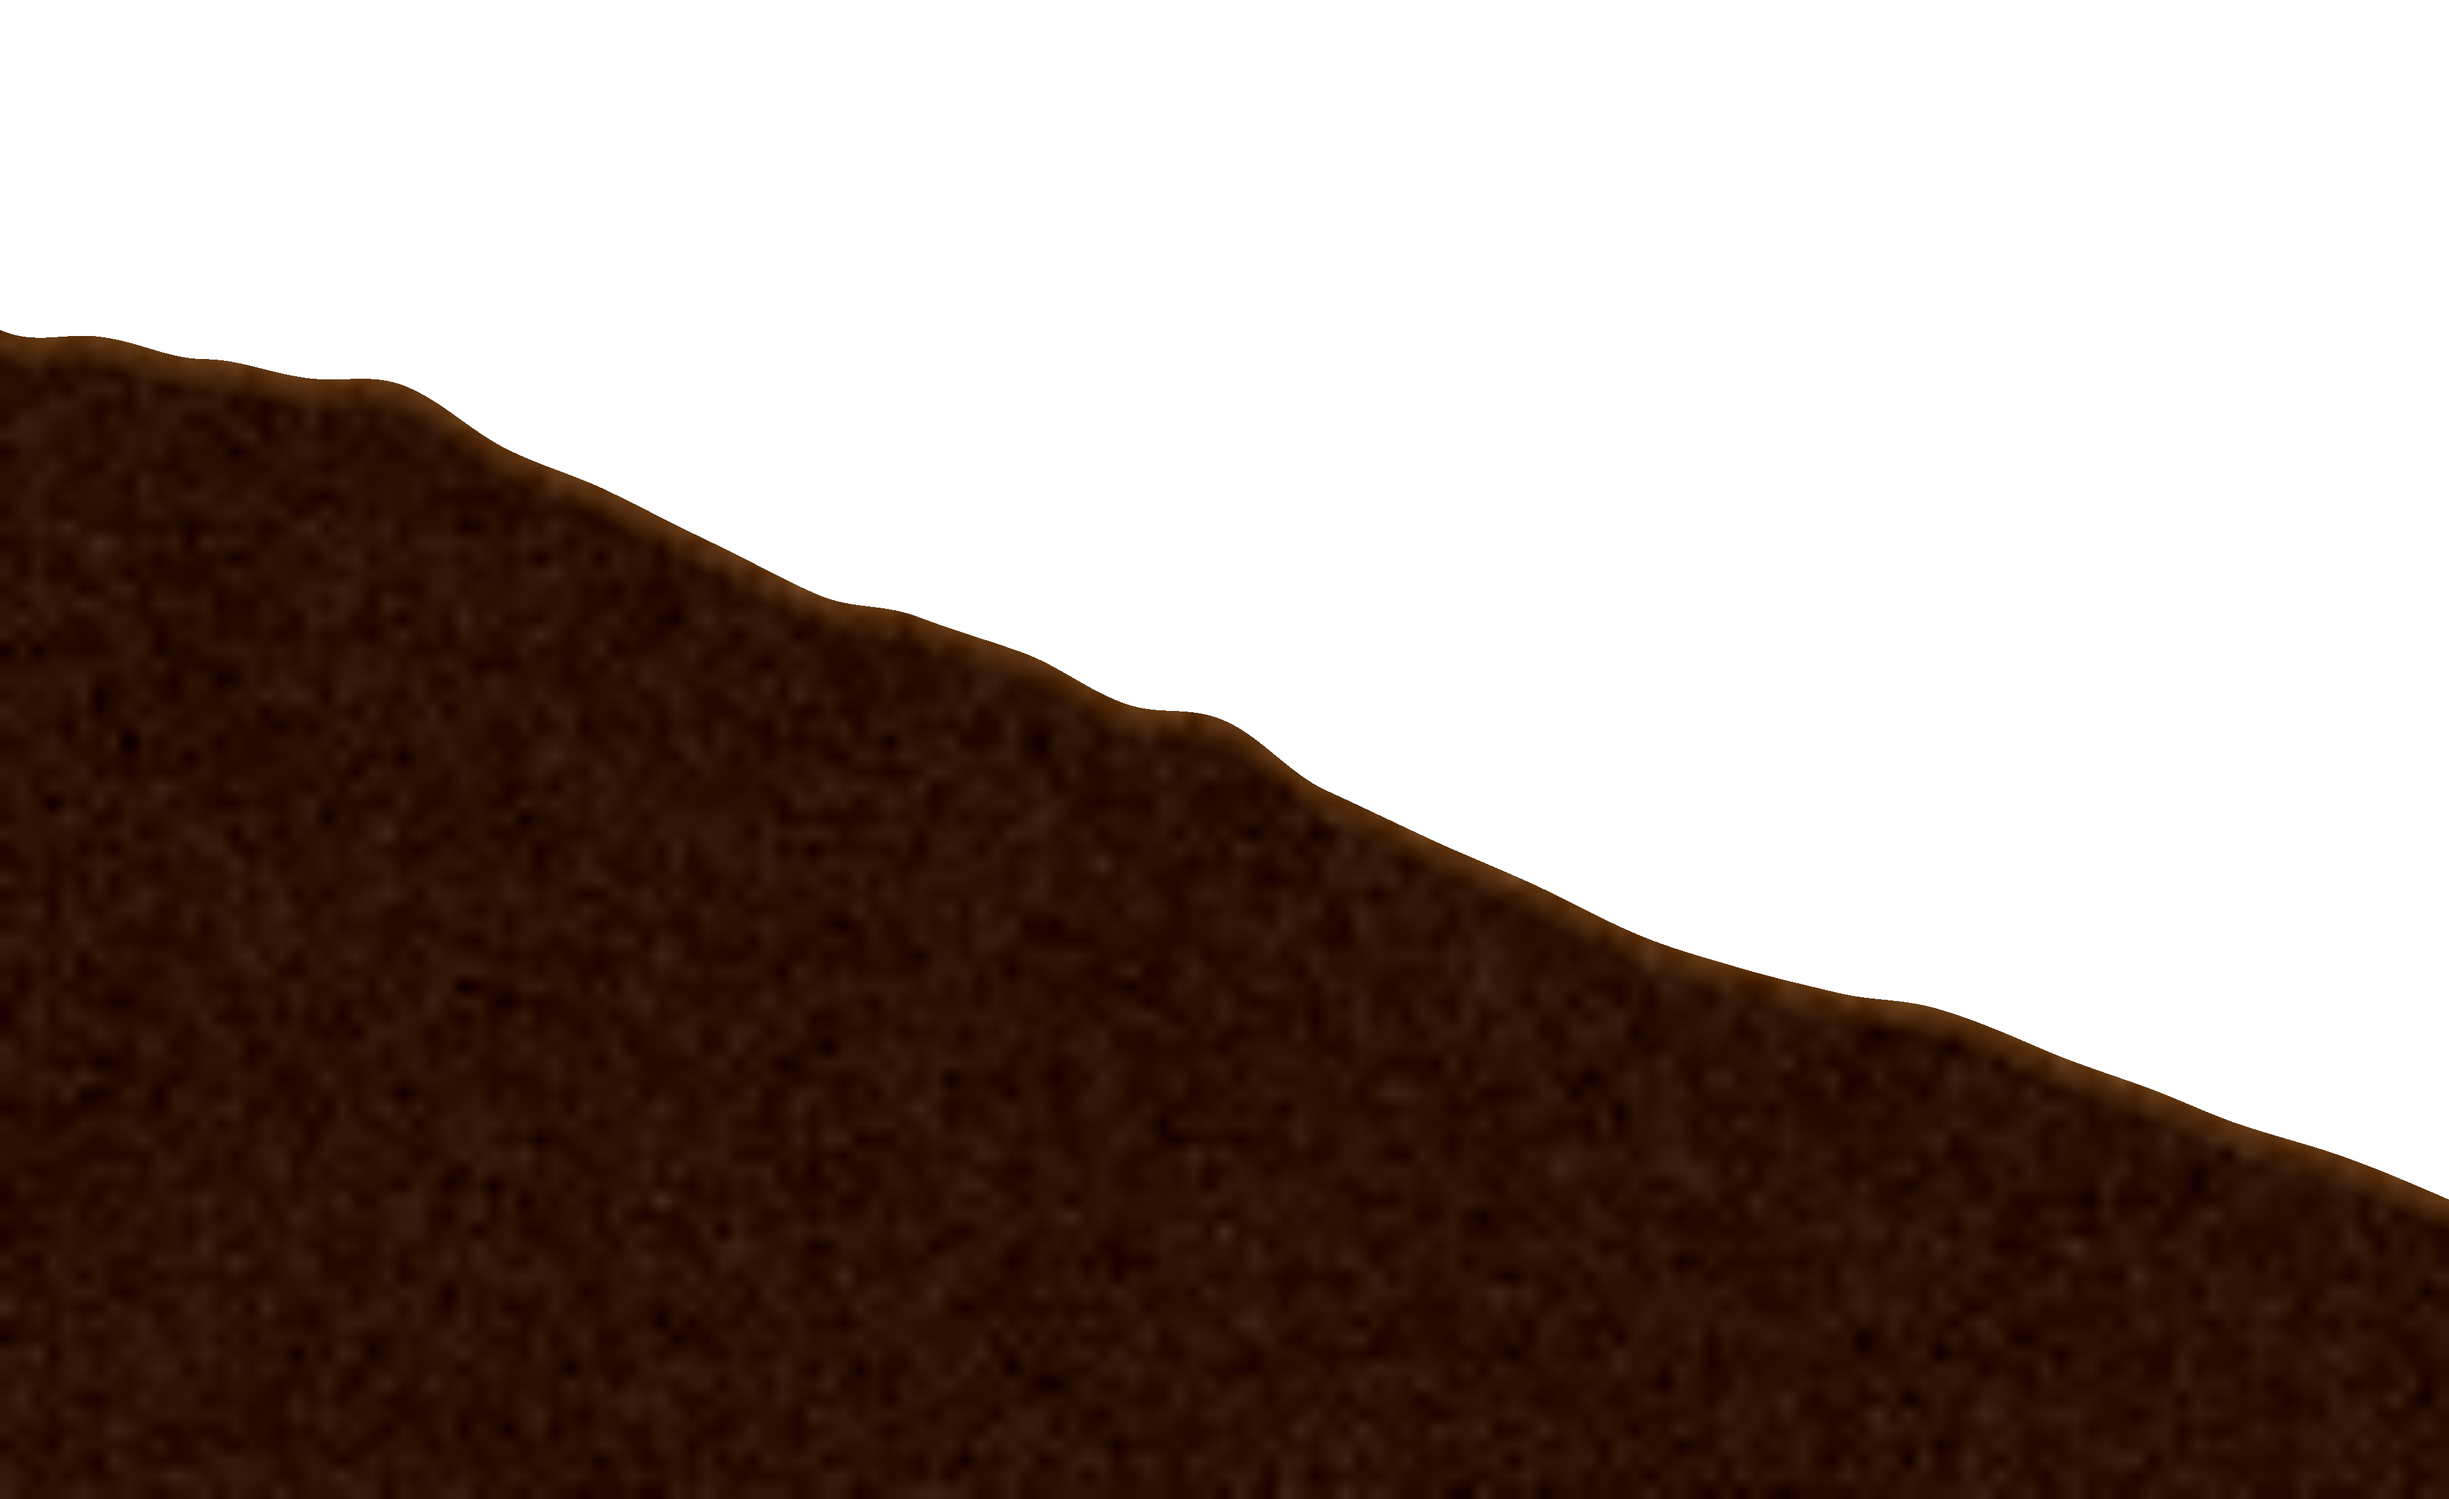
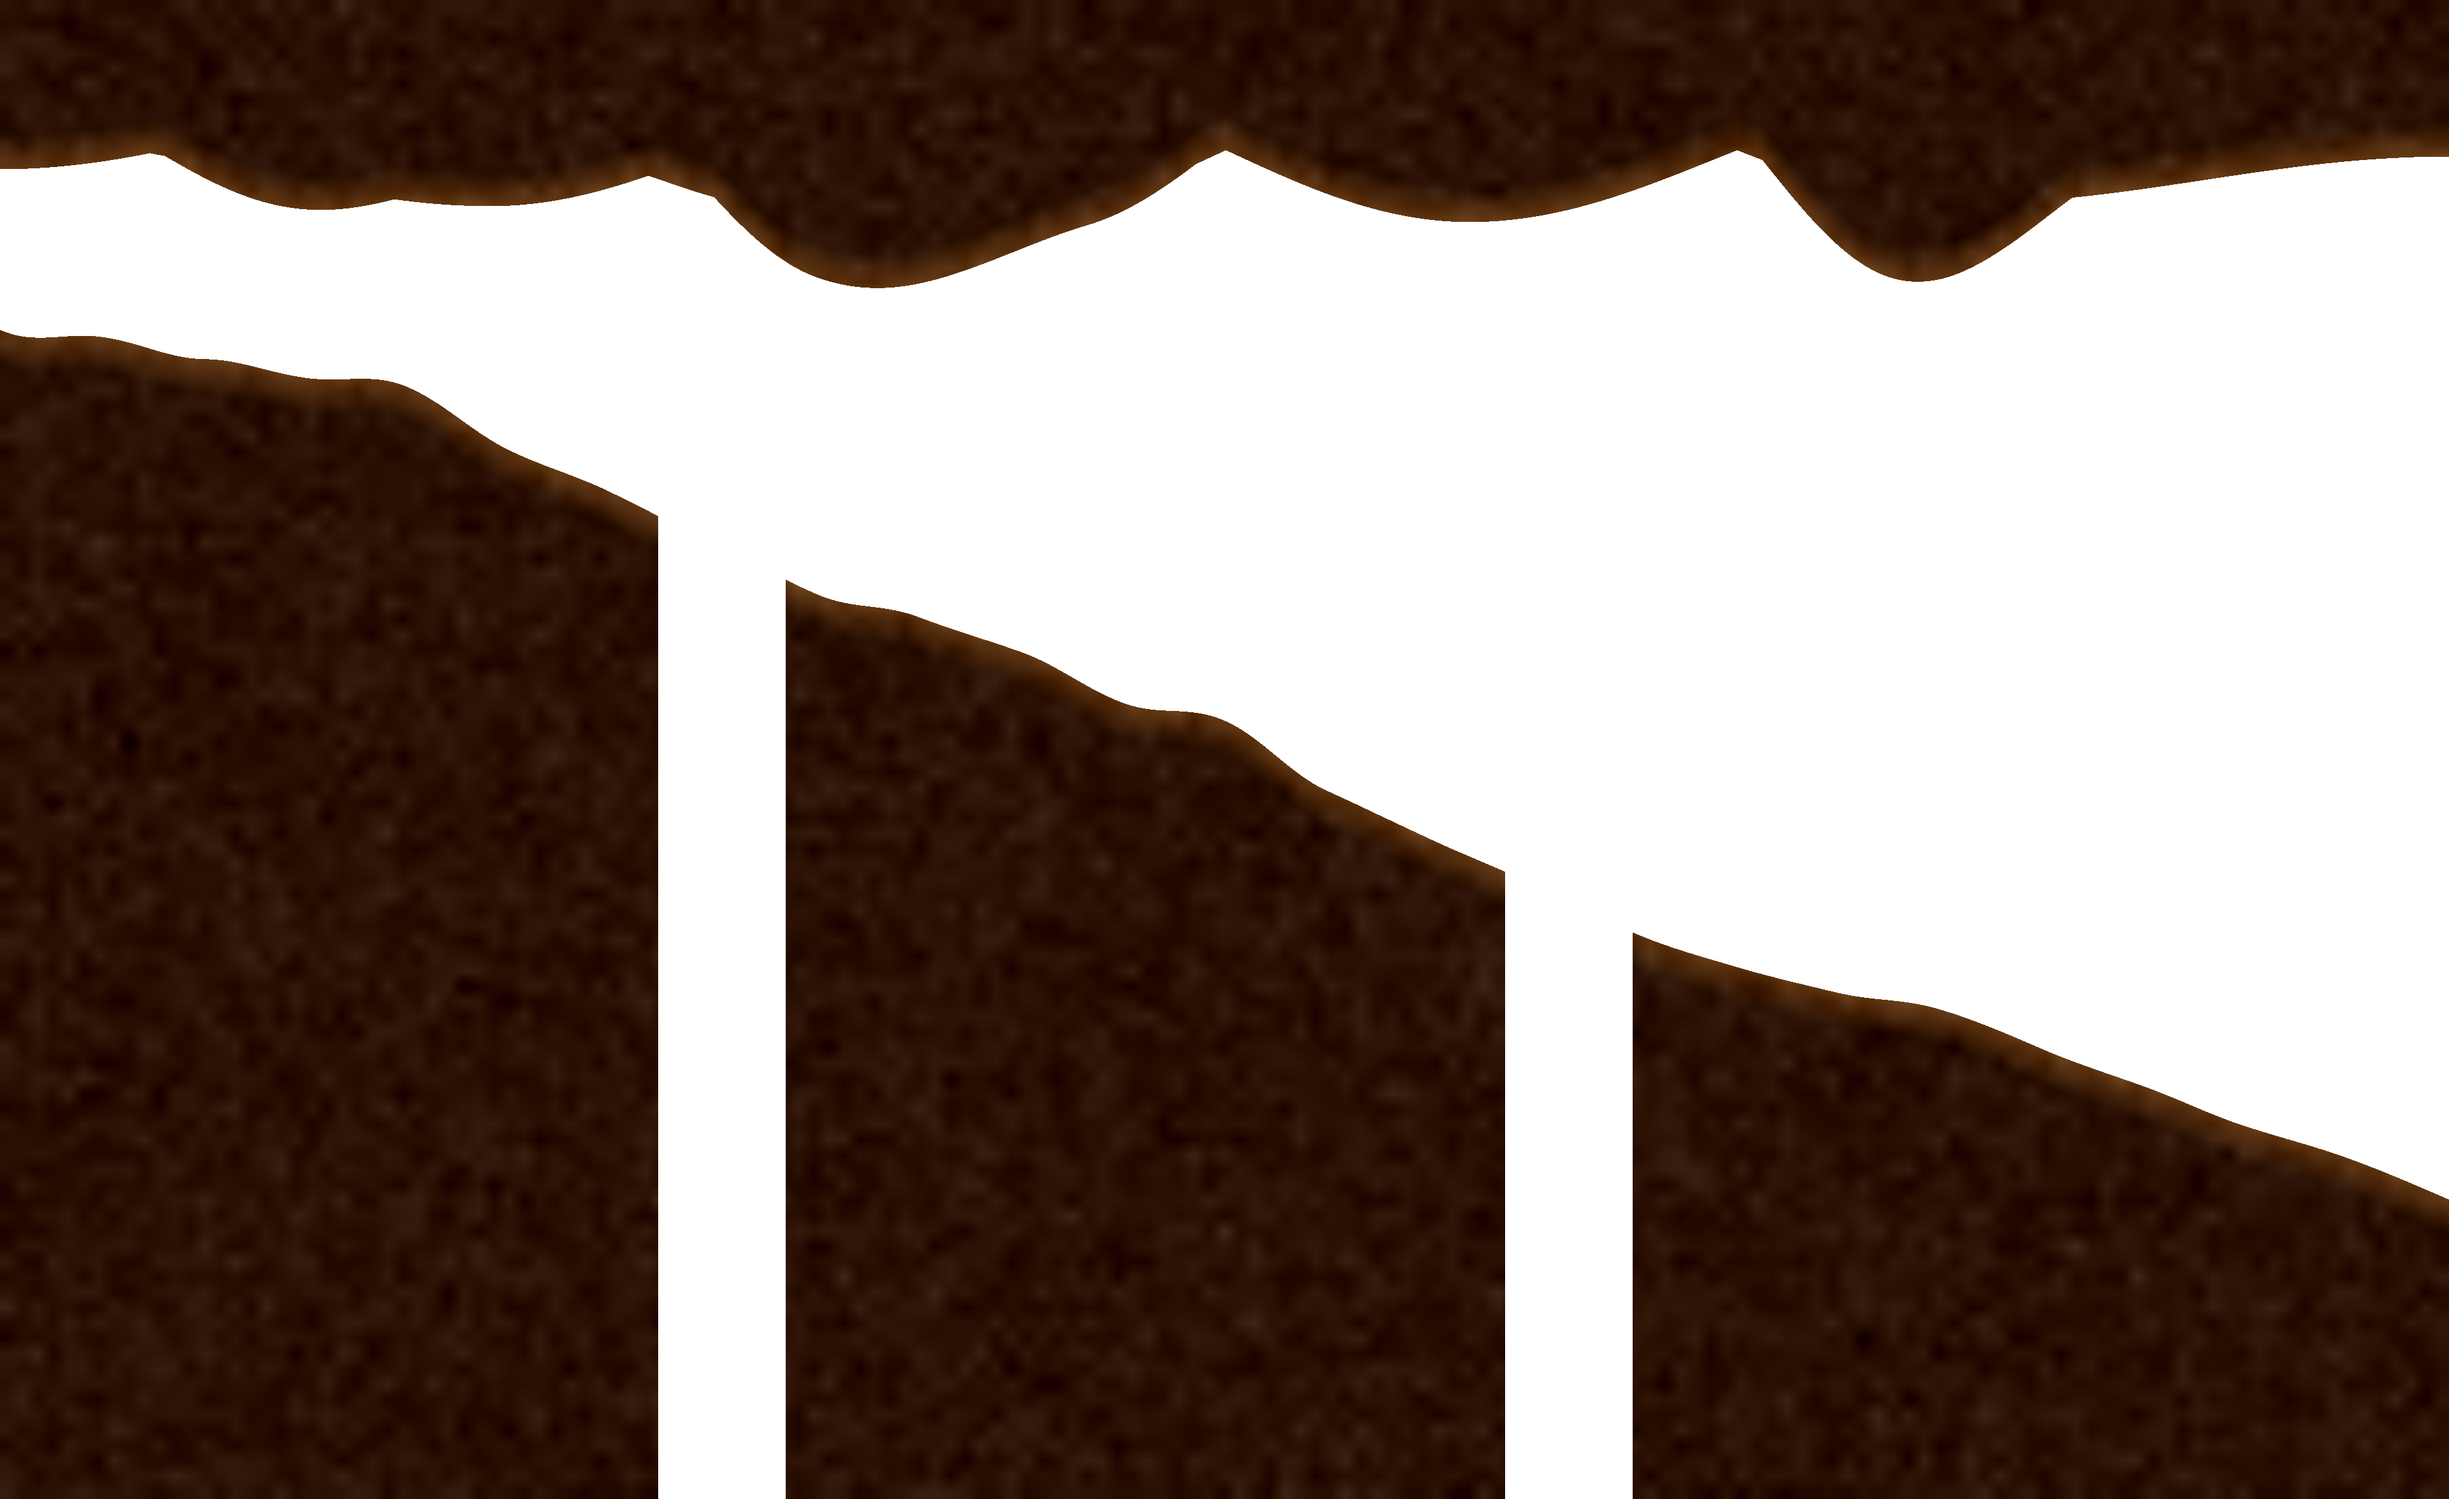
Gi bane 5/6 hule-ganger og rom i stedet for en ubrutt skraning
Mathias sammenlignet med bane 1-4 sin handtegnede kunst: aldri en
ren sammenhengende skraning, alltid flere adskilte bakkestykker
med luft mellom og en mer organisk hule-silhuett. Terreng-scriptet
laget derimot en ubrutt kurve fra venstre til hoyre kant per flis.

To nye ingredienser i samme kurve-system (fortsatt eksakt samsvar
mellom bilde og kollisjonsform per konstruksjon):

- To luftlommer per flis (gap_ranges()), samme prinsipp som det
  eksisterende hullet mellom flis 2/3, bare i mindre skala inni
  hver flis. Holdt unna kant-avrundingen og markens faktiske
  startpunkt, sjekket at avstanden fra spawn til bakke er uendret
  (423 for bane 5, 610 for bane 6).
- Et hengende, rent visuelt hule-tak nar toppen av bildet
  (ceiling_curve()), ingen kollisjon, gjor at luftlommene leses
  som gangrom i en hule i stedet for apen himmel.

Kollisjonsformene hopper over segmenter som havner inni et hull.
Samme behandling pa begge banene med deres egne etablerte
fro-forskyvninger, sa bane 5 og 6 fortsatt ser forskjellige ut.

Claude-Session: https://claude.ai/code/session_01KM3gBnL2KBiiwgB3FdLDrQ

Changed region(s): [[0.0, 0.0, 1.0, 0.2174], [0.25, 0.3416, 0.3438, 1.0], [0.5938, 0.59, 0.6875, 1.0]]

diff --git a/TIL-ORJAN.md b/TIL-ORJAN.md
@@ -1625,3 +1625,55 @@ faktisk nettleser ennå. Bane 6 fikk IKKE samme avrunding eller
 bakgrunnsfiks ennå, den bruker fortsatt sitt eget (uavrundede, men
 korrekte fra byggingen) oppsett, siden dette ble bedt om spesifikt for
 bane 5.
+
+## 2026-09-15, bane 5/6: bakken skal se ut som en faktisk hule, ikke en ramp
+
+Sendte Mathias referansebilder av bane 5 (flisene satt sammen i
+faktisk relativ posisjon, med markens startpunkt merket). Han ba om at
+banen skal ha "ganger med åpenrom og lignende", som bane 1-4 sin
+håndtegnede kunst har, i stedet for tomrommene i selve
+verdensplasseringen. Spurte om han mente kosmetikk på referansebildet
+mitt eller selve banekunsten, han bekreftet: selve bane 5/6 sin
+bakke-kunst.
+
+Sammenlignet med referansearket over alle ni baner: bane 1-4 sin
+kunst er aldri én sammenhengende skråning, den har flere separate
+bakkestykker med luft mellom (f.eks. bane 2 sin første flis har to
+adskilte kiler), og en mer organisk hule-silhuett enn en ren trekant.
+Terreng-scriptet for bane 5/6 laget derimot én ubrutt kurve fra
+venstre til høyre kant.
+
+Bygget om terreng-scriptet med to nye ingredienser, begge fra samme
+kurve-system som før (fortsatt eksakt samsvar mellom bilde og
+kollisjonsform per konstruksjon):
+
+- **Hull i bakken**: hver flis får nå to luftlommer (fravær av bakke,
+  `gap_ranges()`) i stedet for én sammenhengende bakke, samme prinsipp
+  som hullet mellom flis 2 og 3 fra før, bare i mindre skala og inni
+  hver enkelt flis. Hullenes plassering er tilfeldig per flis (egen
+  seed), men holdt unna kant-avrundingen og, for flis 1, unna markens
+  faktiske startpunkt (kolonne ~170), sjekket tallmessig etterpå at
+  avstanden fra spawn til bakke fortsatt er uendret (423 for bane 5,
+  610 for bane 6).
+- **Hengende tak** (`ceiling_curve()`): en egen, separat silhuett nær
+  toppen av bildet, med noen dypere "drypestein"-humper. Rent
+  visuelt, ingen kollisjon på taket, for ikke å legge til en ny type
+  hindring ingen ba om. Gjør at luftrommene leses som gangrom i en
+  hule i stedet for åpen himmel.
+
+Kollisjonsformene hopper nå over segmenter som havner inni et hull
+(ingen fixture der, samme som det eksisterende hullet mellom flis 2/3
+allerede gjorde), resten uendret (40 linjestykker per flis, jevn
+kurve).
+
+Samme behandling på begge banene, med banenes egne (allerede
+etablerte) frø-forskyvninger, så bane 5 og 6 fortsatt ser forskjellige
+ut. Regenererte `level5/1-4.png`, `level6/1-4.png`,
+`lib/shapedefs5.lua` og `lib/shapedefs6.lua`. Filstørrelsene økte noe
+(fra ~1,5 til ~1,7 MB per flis) pga. mer kant-detalj fra hullene og
+taket, fortsatt en rimelig størrelse.
+
+Luac-sjekket, kjørte fullt syntakssøk over repoet. Ikke testet i
+faktisk nettleser ennå. Sendte oppdaterte referansebilder (samme
+flis-i-relativ-posisjon-metode som før) til Mathias for
+tilbakemelding før dette regnes som ferdig.

diff --git a/KODEBASE.md b/KODEBASE.md
@@ -239,18 +239,29 @@ filene gjør.
   pikslene på flis 1 sin venstrekant og flis 4 sin høyrekant, resten
   urørt). Se `TIL-ORJAN.md` for alle detaljene, inkludert
   generator-scriptet (ligger i en økt-scratchpad, ikke i selve
-  repoet). **Bane 6 har IKKE fått noen av disse to siste fiksene ennå**
-  (samme gamle bakgrunnsoppsett, ingen avrundet kant), siden de ble
-  bedt om spesifikt for bane 5.
+  repoet). Siste runde, samme dag: bakken var én ubrutt skråning,
+  Mathias ba om at den skal se ut som en faktisk hule med ganger og
+  rom, slik bane 1-4 sin håndtegnede kunst har (flere separate
+  bakkestykker med luft mellom, ikke én sammenhengende flate). Lagt
+  til `gap_ranges()` (to luftlommer per flis, holdt unna
+  kant-avrundingen og markens faktiske startpunkt) og
+  `ceiling_curve()` (et hengende, rent visuelt hule-tak nær toppen av
+  bildet, ingen kollisjon). Samme prinsipp som hullet mellom flis 2/3,
+  bare i mindre skala og inni hver flis. **Bane 6 fikk samme
+  hule-behandling samtidig** (se under), bakgrunnsfiksen og
+  kant-avrundingen over gjelder fortsatt bare bane 5.
 - `level6.lua` — **egen, prosedyregenerert bane, 2026-09-15.** Bygget
   rett med den ferdig fiksede generatoren fra bane 5 (riktig
   visningsskala, 40 kollisjons-linjestykker per flis, jevn
-  "value noise"-kurve), bare med andre tilfeldighetsfrø så terrenget
-  ser annerledes ut enn bane 5, og uten hullet (vanlig diagonal
+  "value noise"-kurve, luftlommer og hengende tak for hule-følelsen),
+  bare med andre tilfeldighetsfrø så terrenget ser annerledes ut enn
+  bane 5, og uten hullet mellom flis 2/3 (vanlig diagonal
   flis-cascade, ingen ekstra avstand mellom flisene, samme som bane
   1-4). Ny `lib/shapedefs6.lua`, byttet ut fra den delte, feile
   `lib/shapedefs.lua`. `del1`-formen (marken) kopiert uendret fra
-  `lib/shapedefs4.lua`, identisk med bane 5 sin.
+  `lib/shapedefs4.lua`, identisk med bane 5 sin. Har IKKE fått
+  bane 5 sin bakgrunnsfiks eller kant-avrunding ennå (de ble bedt om
+  spesifikt for bane 5).
 
 ### Banevalg-systemet
 - `ogt_levelmanager.lua` / `ogt_lmdata.lua` — **i bruk**, tredjeparts-aktig
